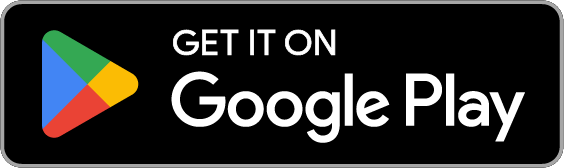
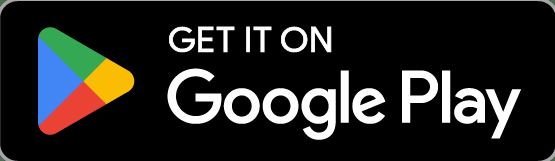
Tighter crop on GP badge, reduce height to 40px to match Apple badge visually

diff --git a/index.html b/index.html
@@ -359,7 +359,7 @@
               <img src="./app-store-badge.svg" alt="Download on the App Store" height="50">
             </a>
             <a href="https://play.google.com/store/apps/details?id=com.pickupsign.app" target="_blank" rel="noopener noreferrer" class="app-badge app-badge--android" aria-label="Get it on Google Play">
-              <img src="./google-play-badge-trimmed.png" alt="Get it on Google Play" height="50">
+              <img src="./google-play-badge-trimmed.png" alt="Get it on Google Play" height="40">
             </a>
           </div>
         </div>
@@ -740,7 +740,7 @@
               <img src="./app-store-badge.svg" alt="Download on the App Store" height="60">
             </a>
             <a href="https://play.google.com/store/apps/details?id=com.pickupsign.app" target="_blank" rel="noopener noreferrer" class="app-badge app-badge--android app-badge--large" aria-label="Get it on Google Play">
-              <img src="./google-play-badge-trimmed.png" alt="Get it on Google Play" height="60">
+              <img src="./google-play-badge-trimmed.png" alt="Get it on Google Play" height="48">
             </a>
           </div>
         </div>

diff --git a/style.css b/style.css
@@ -323,7 +323,7 @@
 .app-badge svg { display: block; }
 .app-badge--ios:hover svg rect { fill: #f0f0f0; }
 .app-badge--android { display: inline-flex; align-items: center; }
-.app-badge--android img { display: block; max-height: 50px; width: auto; }
+
 
 
 /* Mockups in hero */
